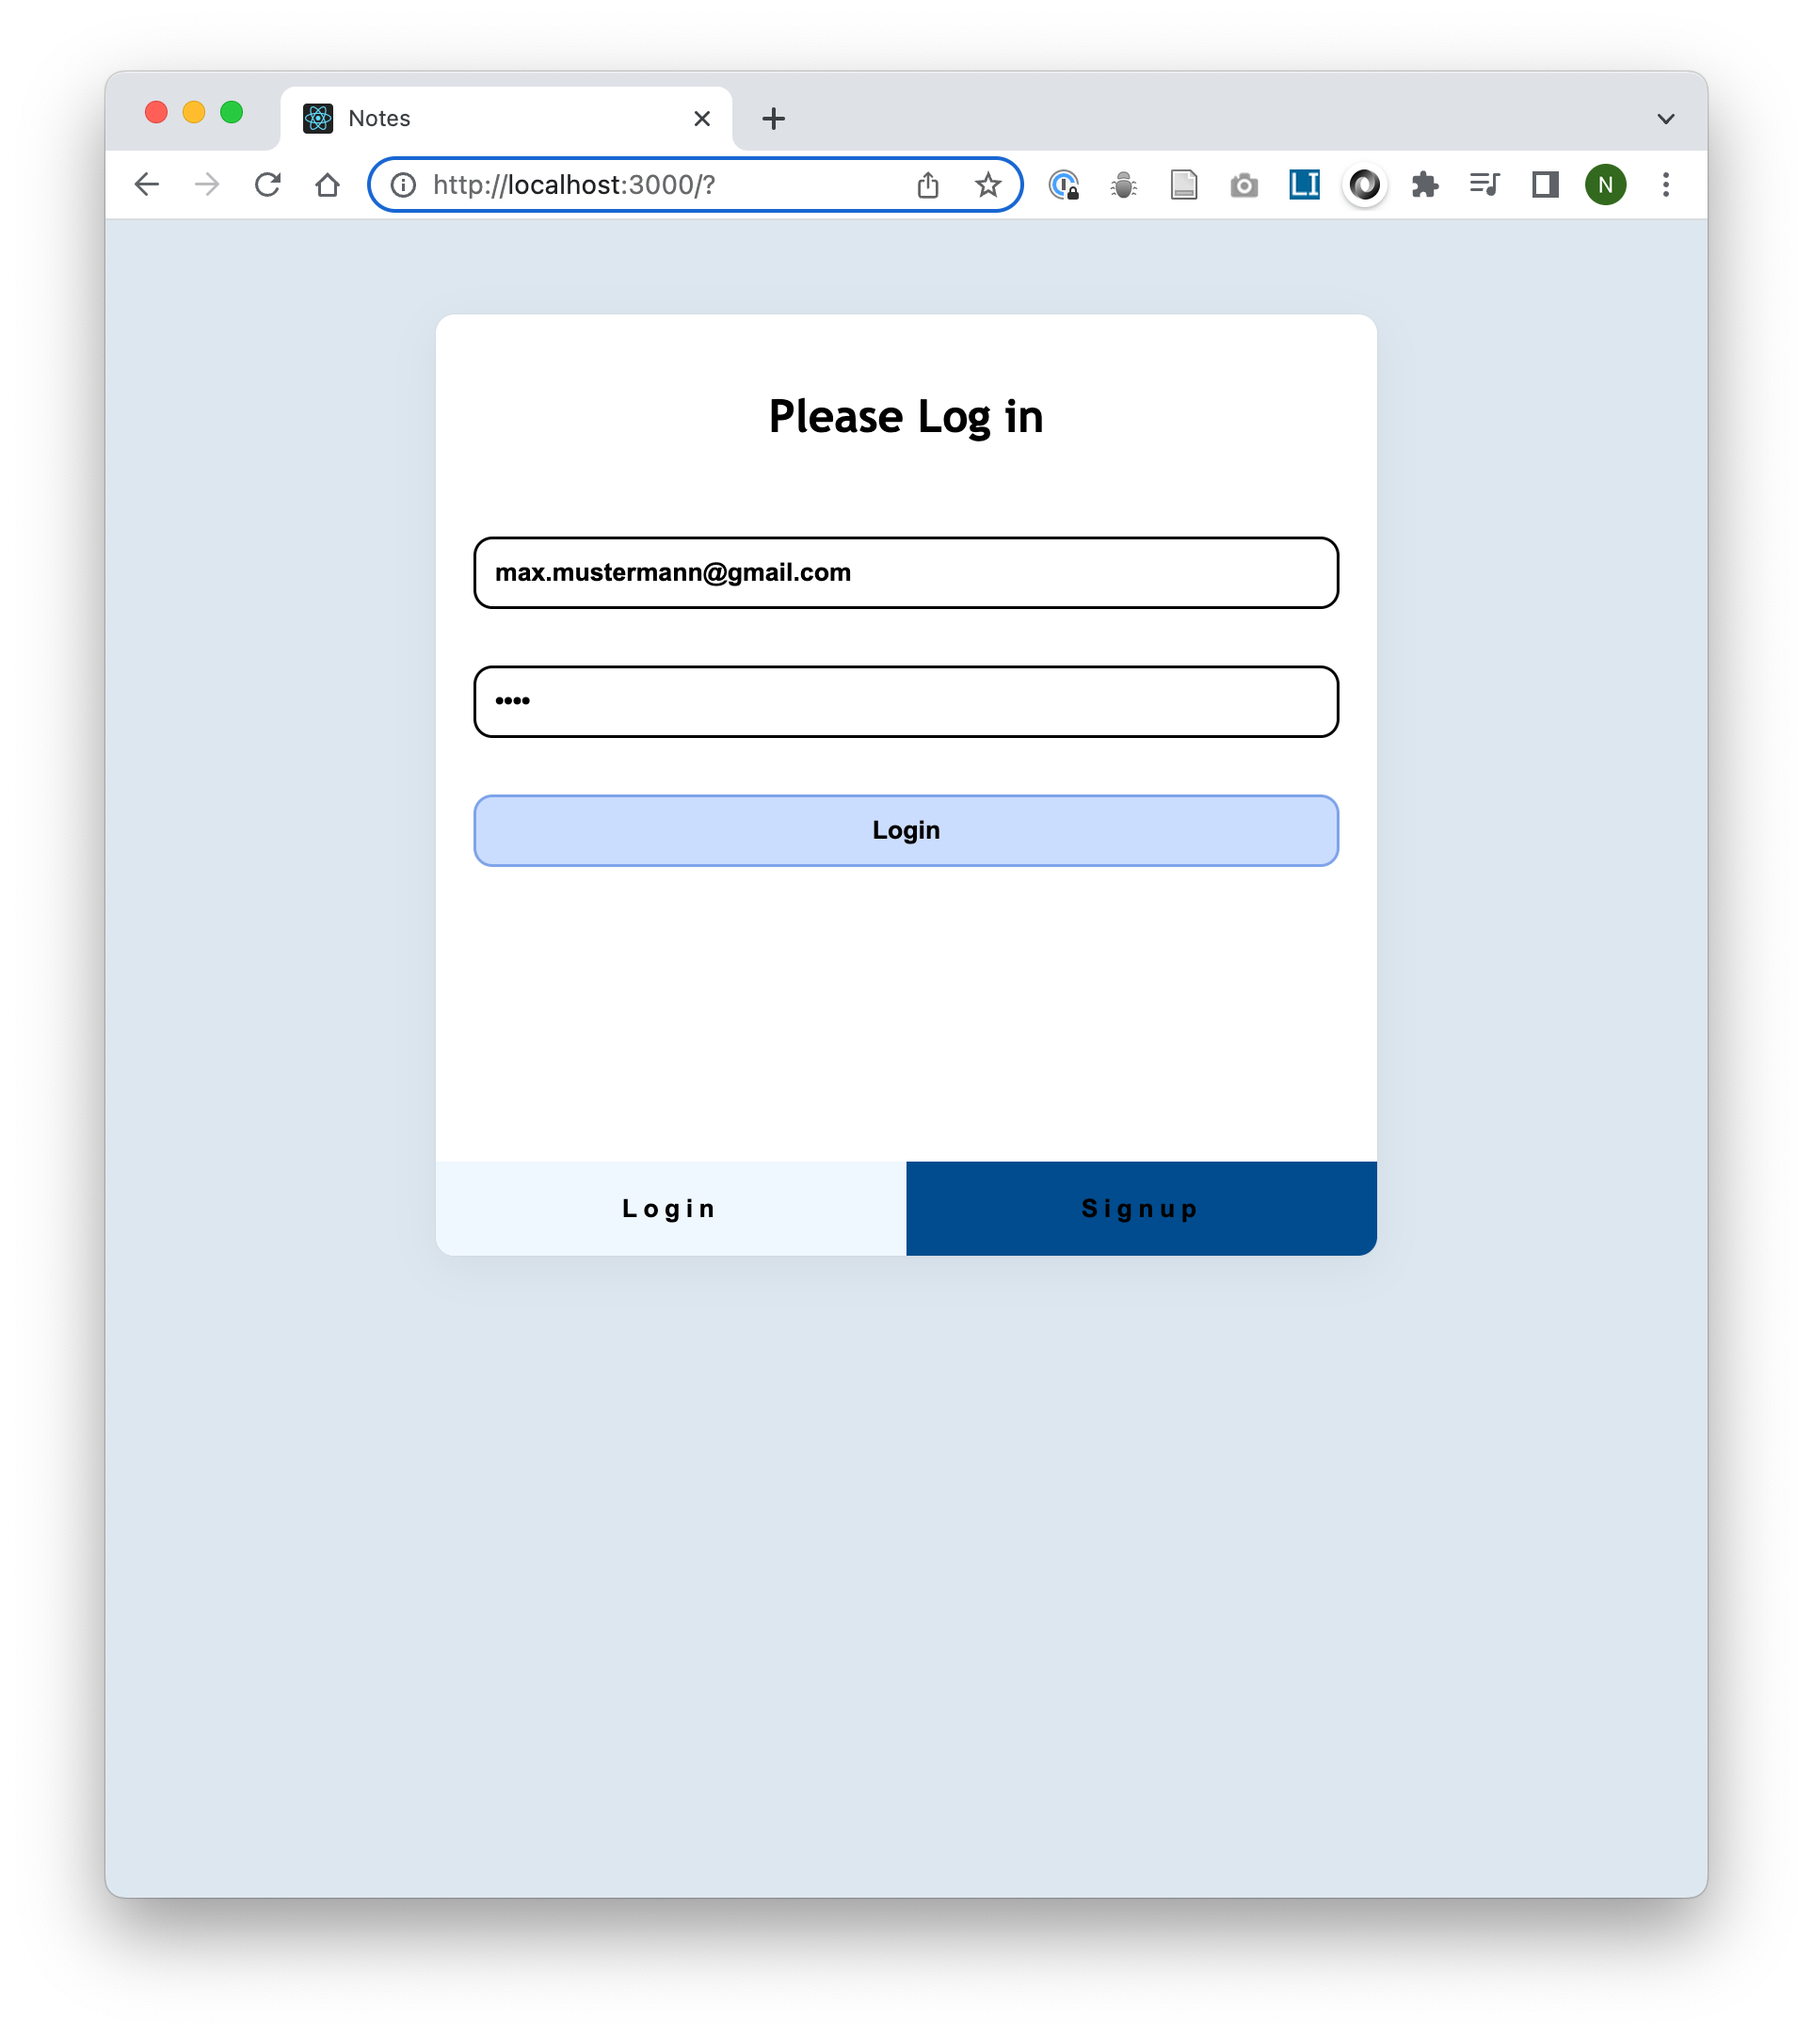
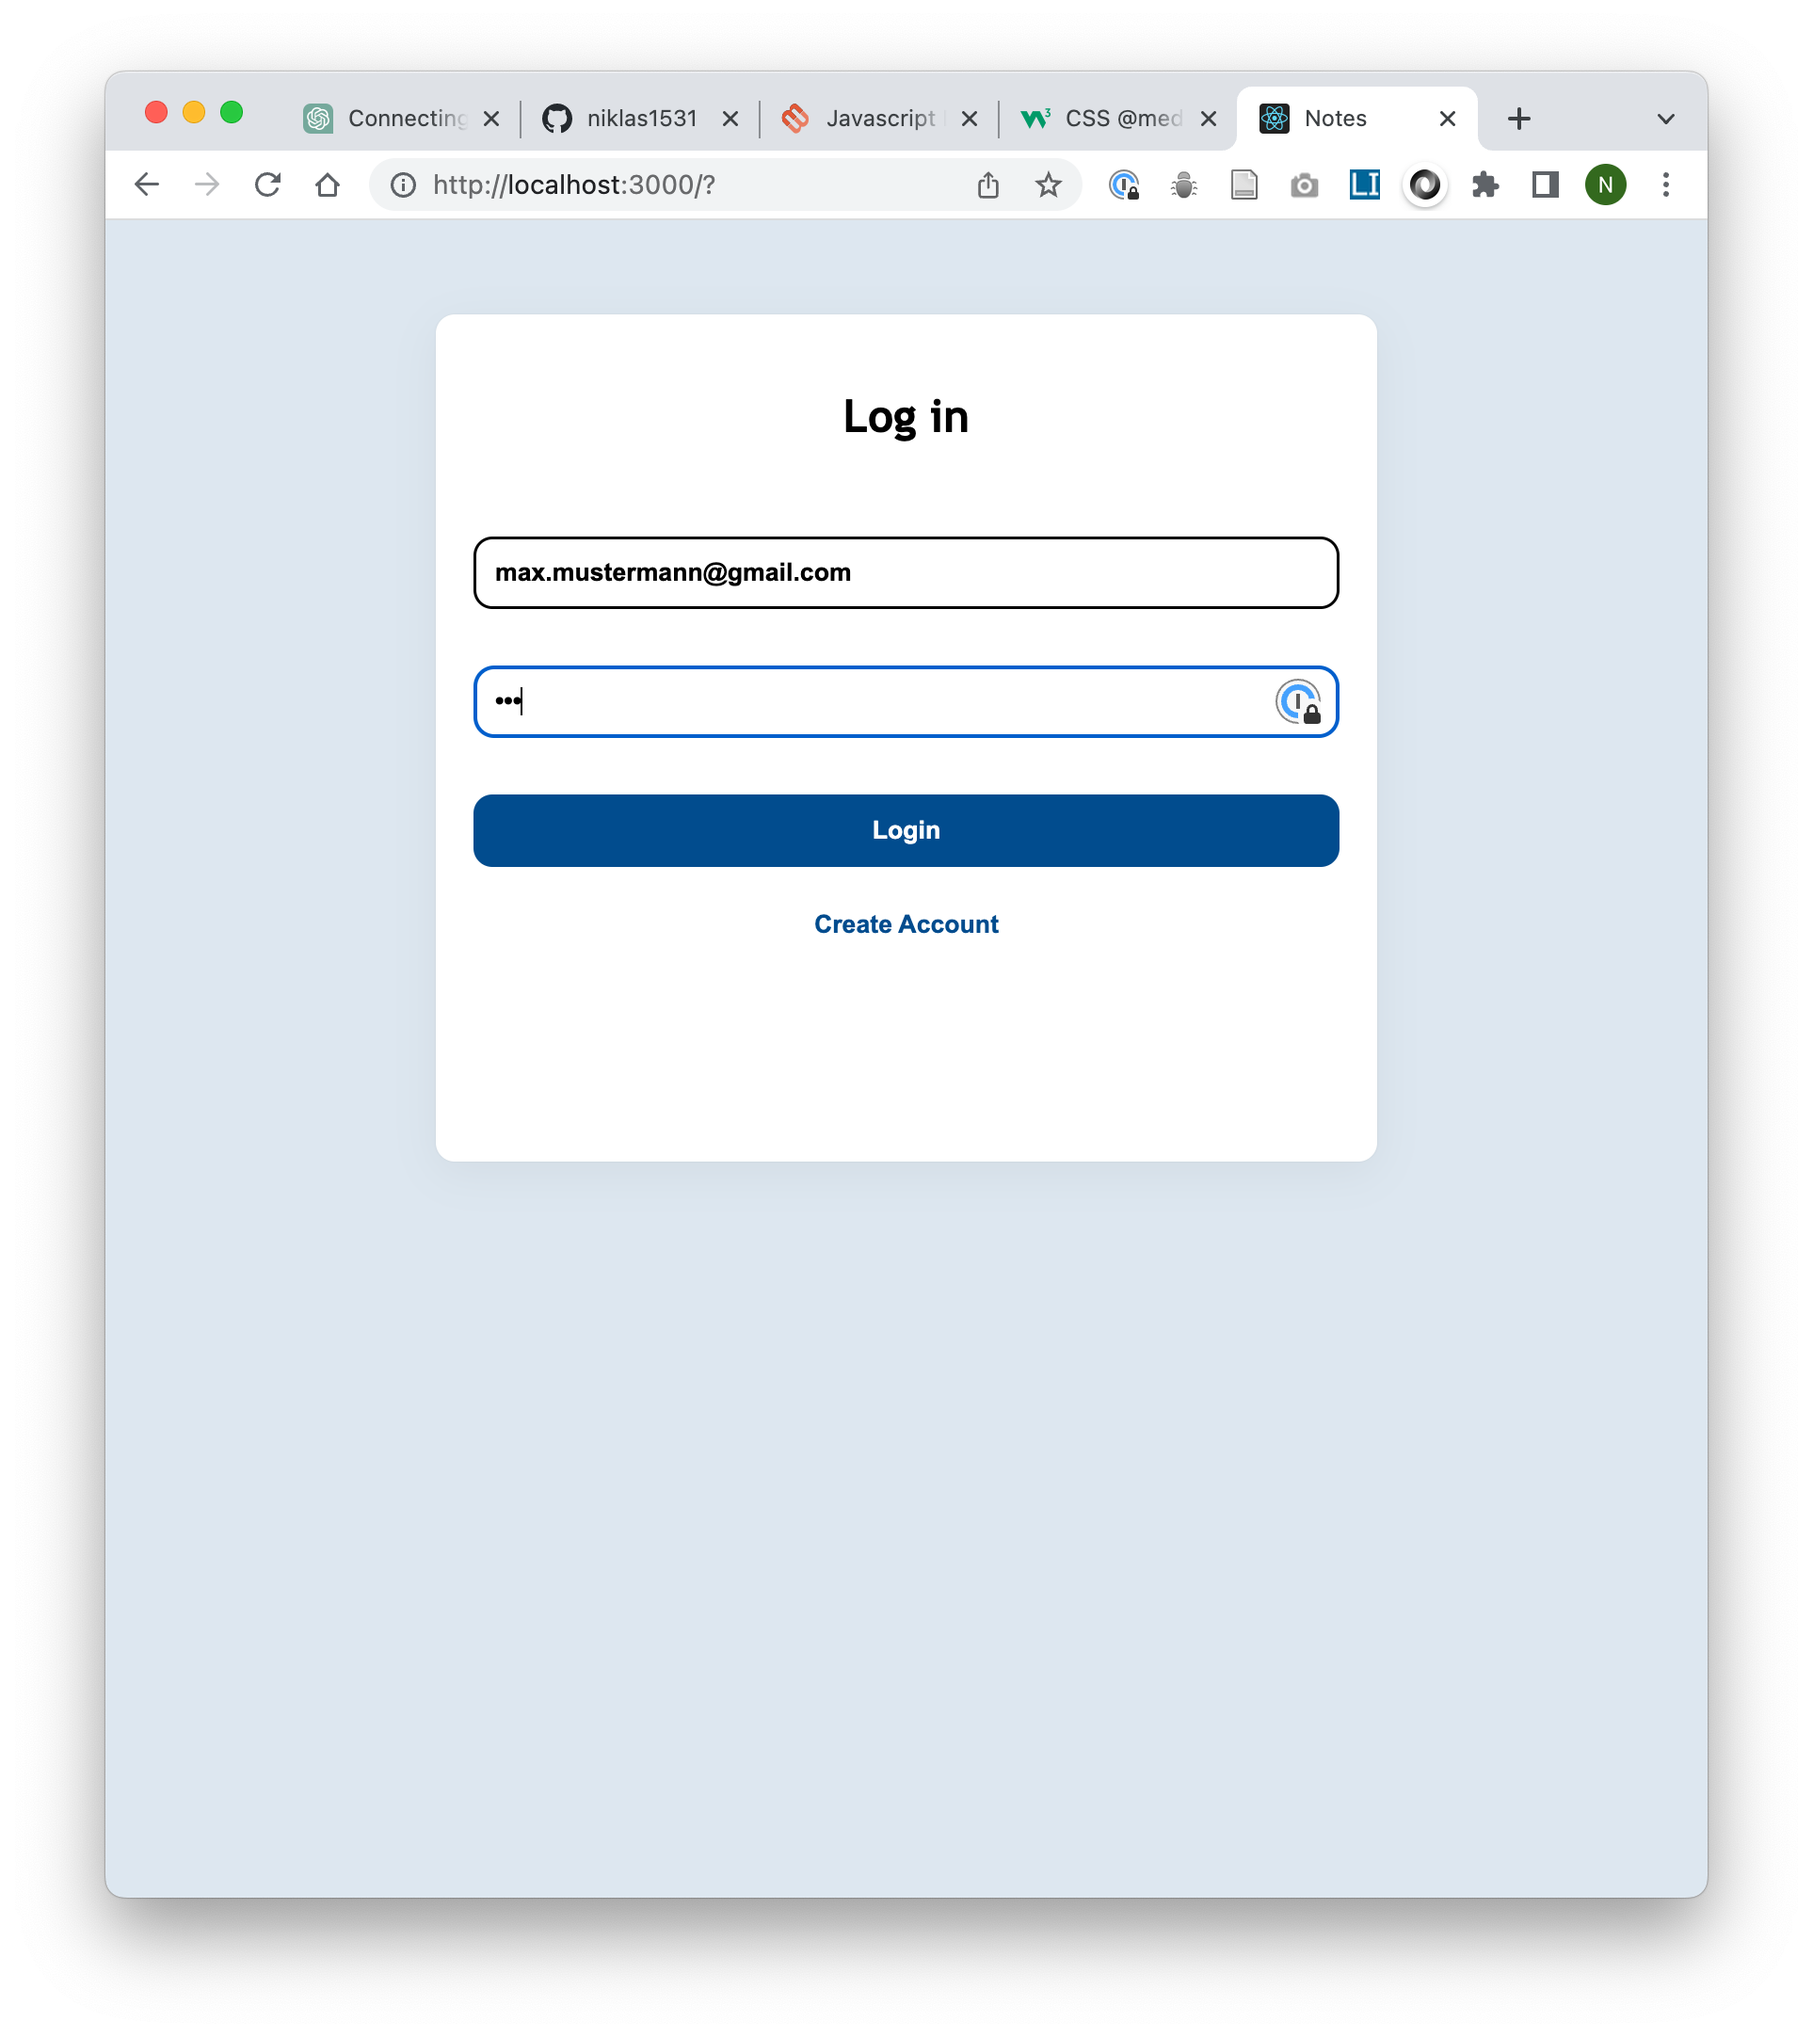
changed auth design

diff --git a/src/index.css b/src/index.css
@@ -13,8 +13,9 @@ input {
 }
 
 .submit {
-    border-color: rgb(126, 164, 234);
-    background-color: rgb(203, 221, 254);
+    border-color: rgb(1, 76, 142);
+    background-color: rgb(1, 76, 142);
+    color: rgb(255, 255, 255);
 }
 
 .create {
@@ -49,9 +50,11 @@ input {
     padding: 5px 10px;
     border-radius: 15px;
 }
+
 .delete:hover {
-    background-color:  rgb(232, 114, 114);
+    background-color: rgb(232, 114, 114);
 }
+
 .edit {
     background-color: rgb(138, 138, 138);
     color: rgb(0, 0, 0, 0.8);
@@ -59,47 +62,41 @@ input {
     padding: 5px 10px;
     border-radius: 15px;
 }
+
 .edit:hover {
-    color: rgb(255,255,255);
+    color: rgb(255, 255, 255);
     background-color: rgb(50, 50, 50);
 }
+
 /* Auth */
 .auth {
     width: 500px;
     margin: 50px auto;
     border-radius: 10px;
     box-shadow: rgb(0, 0, 0, 0.05) 0 6px 24px, rgb(0, 0, 0, 0.08) 0 0 1px;
-    height: 500px;
+    height: 450px;
     background-color: rgb(255, 255, 255);
     box-sizing: border-box;
     overflow: hidden;
-}
-
-.auth .button-group {
-    width: 100%;
-    height: 50px;
-    display: flex;
-    overflow: hidden;
-    box-sizing: border-box;
+    text-align: center;
 }
 
 .auth form {
+    justify-content: center;
     display: flex;
     flex-direction: column;
-    height: 450px;
+   height: fit-content;
     padding: 20px;
     box-sizing: border-box;
     gap: 30px;
     text-align: center;
 }
 
-.auth .button-group button {
-    width: 50%;
-    padding: 10px 20px;
-    box-sizing: border-box;
-    border: none;
+.auth button {
+    color: rgb(1, 76, 142);
     font-weight: bold;
-    letter-spacing: .2rem;
+    background-color: transparent;
+    border: none;
 }
 
 .error {
@@ -184,7 +181,7 @@ input {
 .outer-progress {
     width: 200px;
     height: 10px;
-    border: 1.5px solid rgb(0, 0, 0,0.6);
+    border: 1.5px solid rgb(0, 0, 0, 0.6);
     border-radius: 10px;
     overflow: hidden;
 }
@@ -199,44 +196,54 @@ input {
     display: flex;
     flex-direction: row;
     align-items: center;
-    gap:unset;
+    gap: unset;
     width: 100%;
     justify-content: space-between;
-    border-bottom: 1.5px solid rgb(0,0,0,0.05);
+    border-bottom: 1.5px solid rgb(0, 0, 0, 0.05);
 }
+
 @media (max-width: 750px) {
     .note {
         flex-direction: column;
         gap: 20px;
-       padding-bottom: 40px;
-       text-align: center;
+        padding-bottom: 40px;
+        text-align: center;
     }
-    .header .heading{
+
+    .header .heading {
         flex-direction: column;
         gap: unset;
     }
+
     .header .btn-group {
         flex-direction: column;
     }
+
     .header .heading p {
         margin-top: 0;
     }
-    .modal, .auth {
+
+    .modal,
+    .auth {
         width: 80% !important;
     }
 }
+
 .note .date {
-    color: rgb(0,0,0,.6);
+    color: rgb(0, 0, 0, .6);
     font-size: 15px;
     font-style: italic;
 }
+
 .note .title {
     width: 220px;
 }
+
 .note .header {
     display: flex;
     gap: 10px;
 }
+
 /* Footer */
 footer {
     width: 100%;

diff --git a/src/components/Auth.js b/src/components/Auth.js
@@ -40,37 +40,36 @@ const Auth = () => {
     return (
         <div className="auth">
             <form>
-                <h2>{isLogin ? 'Please Log in' : 'Please Sign up!'}</h2>
+                <h2>{isLogin ? 'Log in' : 'Sign up'}</h2>
                 <input
                     type="email"
-                    placeholder='email'
+                    placeholder='Email'
                     onChange={(e) => setEmail(e.target.value)}
                 />
 
                 <input
                     type="password"
-                    placeholder="password"
+                    placeholder="Password"
                     onChange={(e) => setPassword(e.target.value)}
                 />
                 {!isLogin &&
                     <input
                         type="password"
-                        placeholder="confirm password"
+                        placeholder="Confirm password"
                         onChange={(e) => setConfirmPassword(e.target.value)}
                     />}
-                <input type="submit" value={isLogin ? 'Login': 'Signup'} className='submit' onClick={(e) => handleSubmit(e, isLogin ? 'login' : 'signup')} />
+                <input type="submit" value={isLogin ? 'Login' : 'Signup'} className='submit' onClick={(e) => handleSubmit(e, isLogin ? 'login' : 'signup')} />
                 {error && <p className="error">{error}</p>}
             </form>
-            <div className="button-group">
-                <button 
-                onClick={() => changeView(true)}
-                style={{backgroundColor: isLogin ? 'aliceblue': 'rgb(1, 76, 142)'}}
-                >Login</button>
-                <button 
-                onClick={() => changeView(false)}
-                style={{backgroundColor: !isLogin ? 'aliceblue': 'rgb(1, 76, 142)'}}
-                >Signup</button>
-            </div>
+            {!isLogin ?
+                    <button
+                        onClick={() => changeView(true)}
+                    >Already have an Account? Login</button>
+                    :
+                    <button
+                        onClick={() => changeView(false)}
+                    >Create Account</button>
+                }
         </div>
     );
 }
